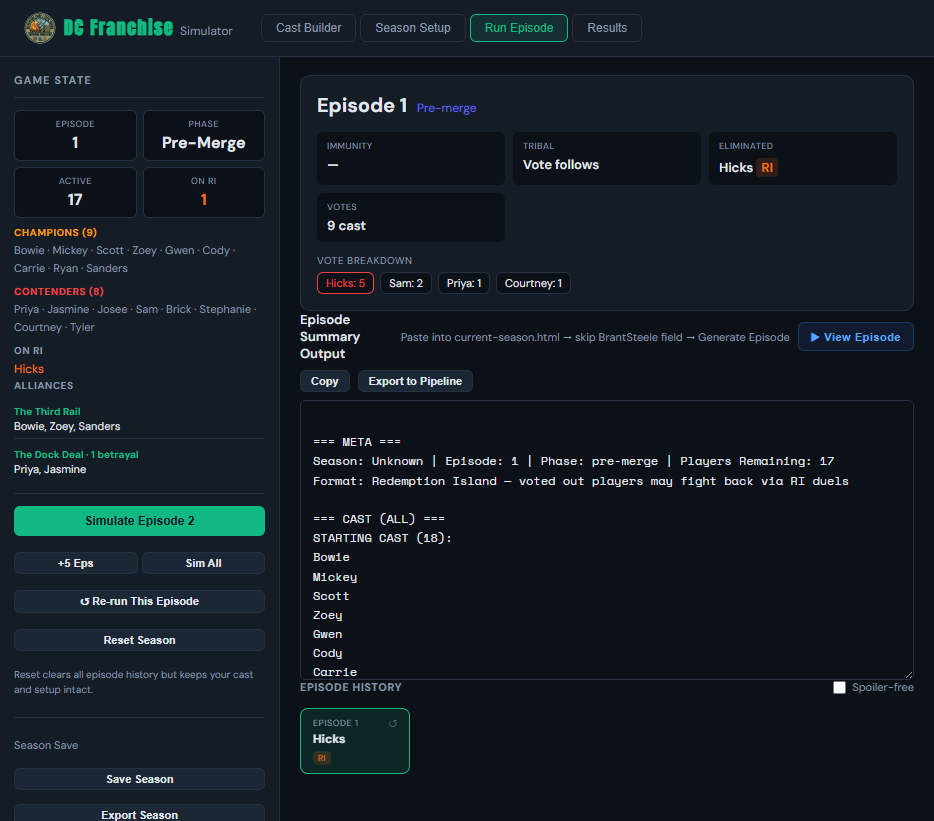
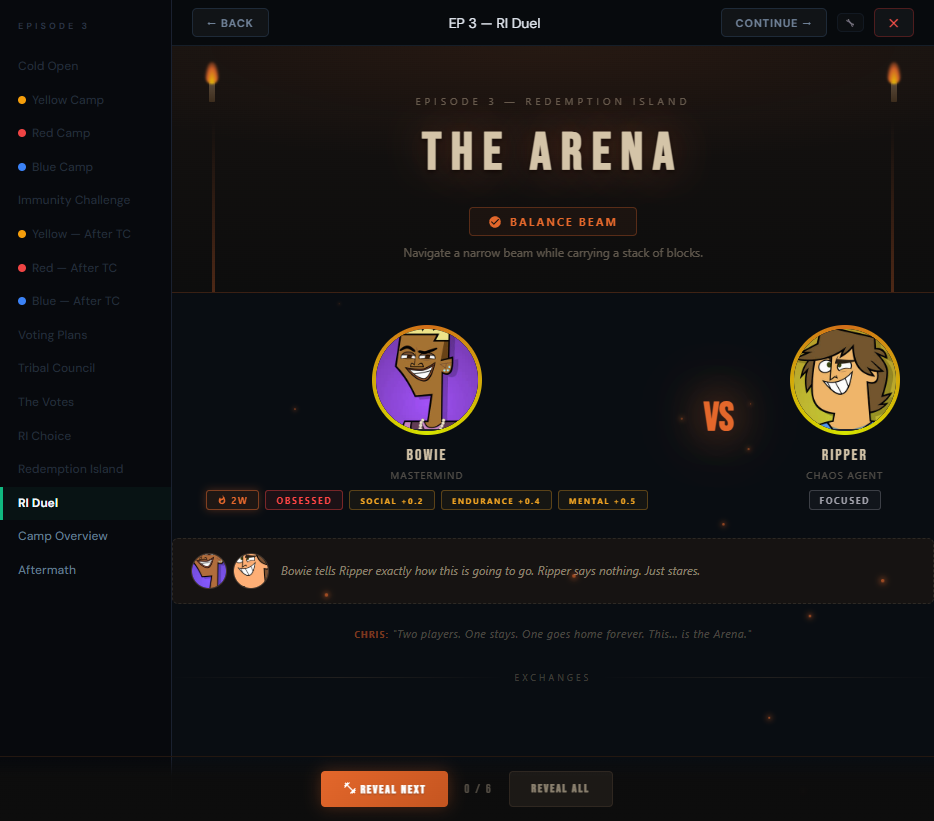
test

diff --git a/js/vp-screens.js b/js/vp-screens.js
@@ -3630,8 +3630,19 @@ function _riArenaCSS() {
     .ri-pill-training{border:1px solid rgba(244,166,35,0.3);color:#f4a623;background:rgba(244,166,35,0.06);font-size:8px;}
 
     /* ── SVG Icons ── */
-    .ri-ico{width:14px;height:14px;vertical-align:middle;fill:currentColor;}
+    .ri-ico{width:14px;height:14px;vertical-align:-2px;fill:currentColor;flex-shrink:0;}
     .ri-ico-lg{width:18px;height:18px;}
+    .ri-ico-sm{width:10px;height:10px;}
+    .ri-pill .ri-ico{width:10px;height:10px;vertical-align:-1px;}
+
+    /* ── RI Choice card ── */
+    .ri-choice-card{text-align:center;padding:28px 24px;margin:20px auto;max-width:500px;
+      background:linear-gradient(135deg,#1a1510 0%,#141210 100%);border:1px solid rgba(90,74,58,0.3);
+      border-radius:8px;position:relative;overflow:hidden;}
+    .ri-choice-accepted{border-color:rgba(227,103,43,0.35);box-shadow:0 0 20px rgba(227,103,43,0.08);}
+    .ri-choice-declined{border-color:rgba(255,68,68,0.25);box-shadow:0 0 20px rgba(255,68,68,0.06);}
+    .ri-choice-quote{font-size:13px;color:rgba(212,196,168,0.65);line-height:1.8;font-style:italic;margin:16px 0;
+      padding:0 16px;border-left:2px solid rgba(227,103,43,0.2);text-align:left;}
 
     /* ── Pre-duel tension card ── */
     .ri-tension{background:rgba(30,24,18,0.6);border:1px dashed rgba(212,196,168,0.12);border-radius:6px;
@@ -3844,7 +3855,7 @@ function _riSvgIconSm(type) {
     warning: 'M12 2C6.48 2 2 6.48 2 12s4.48 10 10 10 10-4.48 10-10S17.52 2 12 2zm1 15h-2v-2h2v2zm0-4h-2V7h2v6z',
   };
   const p = paths[type] || paths.flame;
-  return `<svg class="ri-ico" viewBox="0 0 24 24" style="width:10px;height:10px"><path d="${p}"/></svg>`;
+  return `<svg class="ri-ico ri-ico-sm" viewBox="0 0 24 24"><path d="${p}"/></svg>`;
 }
 
 // Exchange type icon mapping (returns large SVG)
@@ -3987,6 +3998,71 @@ export function riDuelRevealAll(screenKey, totalSteps) {
   st.idx = st.total - 1;
   const suffix = screenKey;
   _riReapplyVisibility(suffix, st.idx, st.total);
+}
+
+// ── RI Choice Screen — shows whether eliminated player chose RI or went home ──
+export function rpBuildRIChoice(ep) {
+  const name = ep.eliminated;
+  const choice = ep.riChoice;
+  if (!name || !choice) return null;
+  const isRescue = choice === 'RESCUE ISLAND';
+  const accepted = choice === 'REDEMPTION ISLAND' || isRescue;
+  const pn = pronouns(name);
+  const s = pStats(name);
+  const arch = players.find(p => p.name === name)?.archetype || '';
+
+  const acceptQuotes = [
+    `"I didn't come this far to quit. Light the torch — I'm staying."`,
+    `"They think they got rid of me? I'll claw my way back into this game."`,
+    `"I'm not done. Not even close."`,
+    `"Every person who wrote my name is going to regret it."`,
+    `"This isn't over. I've got unfinished business."`,
+    `"You want me out? You'll have to beat me yourself."`,
+  ];
+  const declineQuotes = [
+    `"I've said what I needed to say. I'm at peace with this."`,
+    `"I gave it everything. Time to go home."`,
+    `"There's nothing left for me here. I'm done."`,
+    `"I'd rather leave with my dignity than fight in some gladiator pit."`,
+    `"My torch is snuffed. That's the game."`,
+  ];
+
+  const quote = accepted
+    ? acceptQuotes[Math.floor(Math.random() * acceptQuotes.length)]
+    : declineQuotes[Math.floor(Math.random() * declineQuotes.length)];
+
+  const destLabel = isRescue ? 'RESCUE ISLAND' : accepted ? 'REDEMPTION ISLAND' : 'HOME';
+  const destIcon = accepted ? 'flame' : 'x-mark';
+  const destCls = accepted ? 'fire' : 'danger';
+  const cardCls = accepted ? 'ri-choice-accepted' : 'ri-choice-declined';
+
+  let html = _riArenaCSS();
+  html += `<div class="ri-shell">`;
+  html += _riEmberParticles();
+
+  html += _riArchHeader(
+    `Episode ${ep.num || ''}`,
+    accepted ? 'THE PATH CHOSEN' : 'TORCH SNUFFED',
+    accepted ? `${name} has been voted out — but the game isn't over.` : `${name} walks away from the arena.`,
+    null, null
+  );
+
+  html += `<div class="ri-choice-card ${cardCls}">
+    <div style="display:flex;justify-content:center;margin-bottom:16px">
+      <div class="ri-portrait-ring" ${!accepted ? 'style="background:conic-gradient(from 0deg,rgba(255,68,68,0.4),rgba(120,60,60,0.3),rgba(255,68,68,0.4));animation:none"' : ''}>
+        <div class="ri-portrait-inner">${rpPortrait(name, 'xl')}</div>
+      </div>
+    </div>
+    <div class="ri-combatant-name" style="font-size:20px;letter-spacing:3px">${name}</div>
+    <div class="ri-combatant-arch">${vpArchLabel(name)}</div>
+    <div class="ri-choice-quote">${quote}</div>
+    <div style="margin-top:16px">
+      <span class="ri-pill ri-pill-${destCls}" style="font-size:11px;padding:5px 16px;letter-spacing:2px">${_riSvgIcon(destIcon)} ${destLabel}</span>
+    </div>
+  </div>`;
+
+  html += `</div>`;
+  return html;
 }
 
 // ── RI Duel Screen ──
@@ -11521,6 +11597,7 @@ export function buildVPScreens(epRecord) {
     }
     vpScreens.push({ id:'cs-results', label:'⚖️ The Verdict', html: rpBuildChefshankResults(ep) });
     // RI screens
+    if (ep.riChoice) { const _rcH = rpBuildRIChoice(ep); if (_rcH) vpScreens.push({ id:'ri-choice', label:'RI Choice', html: _rcH }); }
     if (ep.riLifeEvents?.length || ep.riDuel) {
       const _csRiLife = rpBuildRILife(ep);
       if (_csRiLife) vpScreens.push({ id:'ri-life', label:'Redemption Island', html: _csRiLife });
@@ -11552,6 +11629,7 @@ export function buildVPScreens(epRecord) {
     }
     vpScreens.push({ id:'of-results', label:'⚖️ Final Verdict', html: rpBuildOneFluResults(ep) });
     // RI screens
+    if (ep.riChoice) { const _rcH = rpBuildRIChoice(ep); if (_rcH) vpScreens.push({ id:'ri-choice', label:'RI Choice', html: _rcH }); }
     if (ep.riLifeEvents?.length || ep.riDuel) {
       const _ofRiLife = rpBuildRILife(ep);
       if (_ofRiLife) vpScreens.push({ id:'ri-life', label:'Redemption Island', html: _ofRiLife });
@@ -11577,6 +11655,7 @@ export function buildVPScreens(epRecord) {
     }
     vpScreens.push({ id:'mod-results', label:'⚖️ Final Verdict', html: rpBuildMastersOfDisastersResults(ep) });
     // RI screens
+    if (ep.riChoice) { const _rcH = rpBuildRIChoice(ep); if (_rcH) vpScreens.push({ id:'ri-choice', label:'RI Choice', html: _rcH }); }
     if (ep.riLifeEvents?.length || ep.riDuel) {
       const _modRiLife = rpBuildRILife(ep);
       if (_modRiLife) vpScreens.push({ id:'ri-life', label:'Redemption Island', html: _modRiLife });
@@ -11595,6 +11674,7 @@ export function buildVPScreens(epRecord) {
     if (ep.sportsMarathon.halftimeEvents?.length) vpScreens.push({ id:'sm-halftime', label:'Halftime', html: rpBuildSportsMarathonHalftime(ep) });
     vpScreens.push({ id:'sm-sports', label:'Sports', html: rpBuildSportsMarathonSports(ep) });
     vpScreens.push({ id:'sm-results', label:'Results', html: rpBuildSportsMarathonResults(ep) });
+    if (ep.riChoice) { const _rcH = rpBuildRIChoice(ep); if (_rcH) vpScreens.push({ id:'ri-choice', label:'RI Choice', html: _rcH }); }
     if (ep.riLifeEvents?.length || ep.riDuel) {
       const _smRiLife = rpBuildRILife(ep);
       if (_smRiLife) vpScreens.push({ id:'rescue-life', label:'Rescue Island', html: _smRiLife });
@@ -11605,6 +11685,7 @@ export function buildVPScreens(epRecord) {
     if (ep.millionBucksBC.breakEvents?.length) vpScreens.push({ id:'bc-break', label:'Break', html: rpBuildMillionBucksBCBreak(ep) });
     if (ep.millionBucksBC.boneBattle) vpScreens.push({ id:'bc-battle', label:'Bone Battle', html: rpBuildMillionBucksBCBattle(ep) });
     vpScreens.push({ id:'bc-results', label:'Results', html: rpBuildMillionBucksBCResults(ep) });
+    if (ep.riChoice) { const _rcH = rpBuildRIChoice(ep); if (_rcH) vpScreens.push({ id:'ri-choice', label:'RI Choice', html: _rcH }); }
     if (ep.riLifeEvents?.length || ep.riDuel) {
       const _bcRiLife = rpBuildRILife(ep);
       if (_bcRiLife) vpScreens.push({ id:'rescue-life', label:'Rescue Island', html: _bcRiLife });
@@ -11615,6 +11696,7 @@ export function buildVPScreens(epRecord) {
     if (ep.oceansHeist.heist) vpScreens.push({ id:'oh-heist', label:'The Heist', html: rpBuildOceansHeistHeist(ep) });
     if (ep.oceansHeist.getaway) vpScreens.push({ id:'oh-getaway', label:'Getaway', html: rpBuildOceansHeistGetaway(ep) });
     vpScreens.push({ id:'oh-results', label:'Debrief', html: rpBuildOceansHeistResults(ep) });
+    if (ep.riChoice) { const _rcH = rpBuildRIChoice(ep); if (_rcH) vpScreens.push({ id:'ri-choice', label:'RI Choice', html: _rcH }); }
     if (ep.riLifeEvents?.length || ep.riDuel) {
       const _ohRiLife = rpBuildRILife(ep);
       if (_ohRiLife) vpScreens.push({ id:'rescue-life', label:'Rescue Island', html: _ohRiLife });
@@ -11635,6 +11717,7 @@ export function buildVPScreens(epRecord) {
     }
     vpScreens.push({ id:'fmd-results', label:'Debrief', html: rpBuildFullMetalDramaResults(ep) });
     // RI screens
+    if (ep.riChoice) { const _rcH = rpBuildRIChoice(ep); if (_rcH) vpScreens.push({ id:'ri-choice', label:'RI Choice', html: _rcH }); }
     if (ep.riLifeEvents?.length || ep.riDuel) {
       const _fmdRiLife = rpBuildRILife(ep);
       if (_fmdRiLife) vpScreens.push({ id:'ri-life', label:'Redemption Island', html: _fmdRiLife });
@@ -11883,6 +11966,7 @@ export function buildVPScreens(epRecord) {
       vpScreens.push({ id: 'tdd-elim', label: 'Eliminated', html: rpBuildTripleDogDareElimination(ep) });
     }
     // RI/Rescue screens
+    if (ep.riChoice) { const _rcH = rpBuildRIChoice(ep); if (_rcH) vpScreens.push({ id:'ri-choice', label:'RI Choice', html: _rcH }); }
     if (ep.riLifeEvents?.length || ep.riDuel) {
       const _tddRiLife = rpBuildRILife(ep);
       if (_tddRiLife) vpScreens.push({ id:'ri-life', label:'RI Life', html: _tddRiLife });
@@ -11919,6 +12003,7 @@ export function buildVPScreens(epRecord) {
       vpScreens.push({ id:'slasher-leaderboard', label:'Leaderboard', html: rpBuildSlasherLeaderboard(ep) });
     }
     // RI/Rescue Island screens
+    if (ep.riChoice) { const _rcH = rpBuildRIChoice(ep); if (_rcH) vpScreens.push({ id:'ri-choice', label:'RI Choice', html: _rcH }); }
     if (ep.riLifeEvents?.length || ep.riDuel) {
       const _slRiLife = rpBuildRILife(ep);
       if (_slRiLife) vpScreens.push({ id:'ri-life', label:'Redemption Island', html: _slRiLife });
@@ -12026,6 +12111,7 @@ export function buildVPScreens(epRecord) {
       vpScreens.push({ id:'yeti-elimination', label:'Eliminated', html: rpBuildYetiElimination(ep) });
     }
     // RI/Rescue Island screens
+    if (ep.riChoice) { const _rcH = rpBuildRIChoice(ep); if (_rcH) vpScreens.push({ id:'ri-choice', label:'RI Choice', html: _rcH }); }
     if (ep.riLifeEvents?.length || ep.riDuel) {
       const _ytRiLife = rpBuildRILife(ep);
       if (_ytRiLife) vpScreens.push({ id:'ri-life', label:'Redemption Island', html: _ytRiLife });
@@ -12068,6 +12154,7 @@ export function buildVPScreens(epRecord) {
     </div>`;
     vpScreens.push({ id:'no-tribal', label:'No Tribal Council', html: _ntHtml });
     // RI/Rescue Island screens
+    if (ep.riChoice) { const _rcH = rpBuildRIChoice(ep); if (_rcH) vpScreens.push({ id:'ri-choice', label:'RI Choice', html: _rcH }); }
     if (ep.riLifeEvents?.length || ep.riDuel) {
       const _ntRiLife = rpBuildRILife(ep);
       if (_ntRiLife) vpScreens.push({ id:'ri-life', label:'Redemption Island', html: _ntRiLife });
@@ -12125,6 +12212,7 @@ export function buildVPScreens(epRecord) {
       vpScreens.push({ id:`votes-${r.tribe}`,  label:`${r.tribe} Votes`,  html: rpBuildVotes(subEp) });
     });
     // RI/Rescue screens after all multi-tribal votes
+    if (ep.riChoice) { const _rcH = rpBuildRIChoice(ep); if (_rcH) vpScreens.push({ id:'ri-choice', label:'RI Choice', html: _rcH }); }
     if (ep.riLifeEvents?.length || ep.riDuel) {
       const _mtRiLife = rpBuildRILife(ep);
       if (_mtRiLife) vpScreens.push({ id:'ri-life', label:'Redemption Island', html: _mtRiLife });
@@ -12163,6 +12251,12 @@ export function buildVPScreens(epRecord) {
       const _vp2Html = rpBuildVotingPlans2(ep);
       if (_vp2Html) vpScreens.push({ id:'voting-plans-2', label:'Voting Plans 2', html: _vp2Html });
       vpScreens.push({ id:'votes-2', label:'Vote 2', html: rpBuildVotes2(ep) });
+    }
+
+    // ── RI Choice (shows whether eliminated player chose RI or went home) ──
+    if (ep.riChoice) {
+      const _riChoiceHtml = rpBuildRIChoice(ep);
+      if (_riChoiceHtml) vpScreens.push({ id:'ri-choice', label:'RI Choice', html: _riChoiceHtml });
     }
 
     // ── RI Life (after ALL vote reveals) — Redemption format ──
@@ -12329,7 +12423,8 @@ export function buildVPScreens(epRecord) {
     const _postElimHtml = rpBuildPostElimTwist(ep);
     if (_postElimHtml) vpScreens.push({ id:'post-twist', label:'Post-Vote Twist', html: _postElimHtml });
 
-    // RI Life + Duel (for non-tribal episodes OR jury elimination)
+    // RI Choice + Life + Duel (for non-tribal episodes OR jury elimination)
+    if ((!hasTribal || _isJuryElim) && ep.riChoice) { const _rcH = rpBuildRIChoice(ep); if (_rcH) vpScreens.push({ id:'ri-choice', label:'RI Choice', html: _rcH }); }
     if ((!hasTribal || _isJuryElim) && (ep.riLifeEvents?.length || ep.riDuel)) {
       const _riLife2 = rpBuildRILife(ep);
       if (_riLife2) vpScreens.push({ id:'ri-life', label:'Redemption Island', html: _riLife2 });

diff --git a/js/rescue-island.js b/js/rescue-island.js
@@ -355,10 +355,10 @@ export function simulateRIChoice(name) {
   const state = getPlayerState(name);
   const emotional = state?.emotional || 'content';
 
-  // Proportional: fight score determines whether they go to RI
+  // Proportional: fight score determines whether they go to RI (~75-85% for average players)
   const _fightScore = (s.boldness + s.physical + s.strategic + s.loyalty) / 4;
-  const _emotBoost = emotional === 'desperate' ? 2.0 : emotional === 'paranoid' ? 1.0 : 0;
-  const _riChance = Math.min(0.98, (_fightScore + _emotBoost) * 0.10);
+  const _emotBoost = emotional === 'desperate' ? 1.5 : emotional === 'paranoid' ? 0.5 : emotional === 'defeated' ? -1.0 : 0;
+  const _riChance = Math.min(0.98, 0.40 + (_fightScore + _emotBoost) * 0.08);
   return Math.random() < _riChance ? 'REDEMPTION ISLAND' : 'WENT HOME';
 }
 